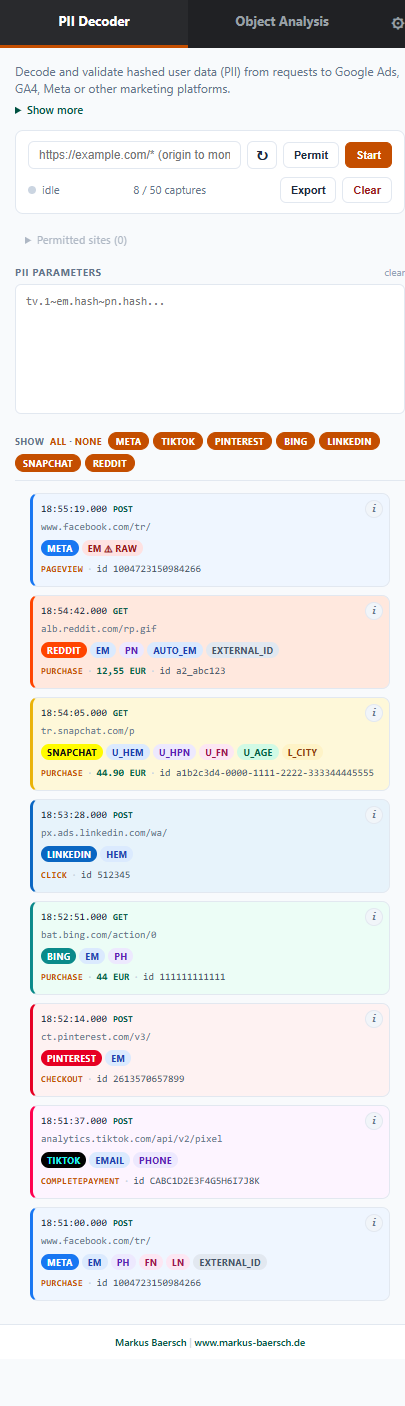
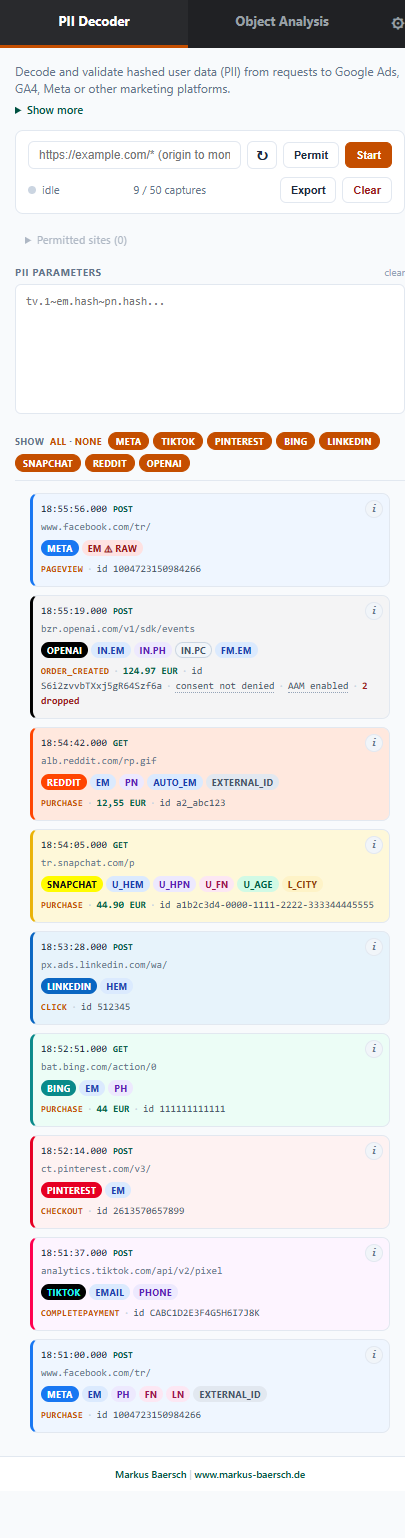
test: cover the OpenAI origin-split validation path end to end
Four Playwright tests drive the panel pipeline the detector unit checks
cannot reach: that in.em and fm.em stay separate rows, that one plaintext
entry yields MATCH against the site-supplied value and ERR against the
scraped one, that the phone normalization reproduces the reference hash,
and that cleartext geo is marked rather than flagged.

Hashes are the reference fixtures (known plaintext -> SHA-256), so a
regression in the normalization rules fails the test rather than
silently agreeing with itself.

diff --git a/tests/validator.spec.js b/tests/validator.spec.js
@@ -218,3 +218,65 @@ test('14. Service filter bar shows on load when a detector is enabled', async ()
   await page.evaluate(() => new Promise((r) => chrome.storage.local.set({ enabledDetectors: {} }, r)));
   await page.close();
 });
+
+// --- OpenAI pixel: the origin-nested user block ------------------------------
+// The one thing no other pixel does — the same identifier arrives once as the
+// site supplied it (in) and once as the SDK scraped it off the page (fm/js/ht).
+// The panel has to keep those apart, or a disagreement between the two is
+// invisible. Hashes are the reference fixtures (docs 2026-09-01-openai-pixel-
+// reference.md §11): identity A went to init, identity B sat in the form.
[3 lines of base64/hex data omitted]
+const OAI_REQUEST = `event=order_created&oai[in.em]=${OAI_EM_A}&oai[in.ph]=${OAI_PH_A}&oai[fm.em]=${OAI_EM_B}&oai[in.pc]=20095`;
+
+async function pasteEm(page, value) {
+  await activateTab(page, 'tab-em');
+  await page.fill('#emInput', value);
+  await page.dispatchEvent('#emInput', 'input');
+  await page.waitForTimeout(300);
+}
+
+test('15. OpenAI: init and scraped email are separate rows, not merged', async () => {
+  const { page, errors } = await openPopup();
+  await pasteEm(page, OAI_REQUEST);
+
+  const html = await page.locator('#emResult').innerHTML();
+  expect(html).toMatch(/OpenAI Ad Measurement Pixel/);
+  expect(html).toMatch(/Email \(init\)/);
+  expect(html).toMatch(/Email \(form\)/);
+  expect(html).toMatch(/order_created/);
+
+  expect(errors).toEqual([]);
+  await page.close();
+});
+
+test('16. OpenAI: the site-supplied email matches while the scraped one does not', async () => {
+  const { page } = await openPopup();
+  await pasteEm(page, OAI_REQUEST);
+  await fillVerification(page, 'v_email', 'test@example.com');
+
+  // Row order follows the block order, so init comes before form.
+  const rows = page.locator('#emResult .res-table tr');
+  await expect(rows.filter({ hasText: 'Email (init)' }).locator('.match')).toBeVisible();
+  await expect(rows.filter({ hasText: 'Email (form)' }).locator('.no-match')).toBeVisible();
+  await page.close();
+});
+
+test('17. OpenAI: phone normalization (digits, no leading zeros) reproduces the hash', async () => {
+  const { page } = await openPopup();
+  await pasteEm(page, OAI_REQUEST);
+  await fillVerification(page, 'v_phone', '+49 170 1234567');
+  const rows = page.locator('#emResult .res-table tr');
+  await expect(rows.filter({ hasText: 'Phone (init)' }).locator('.match')).toBeVisible();
+  await page.close();
+});
+
+test('18. OpenAI: cleartext geo is marked as by-design, never as a leak', async () => {
+  const { page } = await openPopup();
+  await pasteEm(page, OAI_REQUEST);
+  const row = page.locator('#emResult .res-table tr').filter({ hasText: 'Postal code (init)' });
+  await expect(row).toContainText('CLEARTEXT BY DESIGN');
+  await expect(row.locator('.no-match')).toHaveCount(0);
+  await page.close();
+});

diff --git a/tests/detector-fixtures.js b/tests/detector-fixtures.js
@@ -8,7 +8,7 @@ const sha256 = (s) => crypto.createHash('sha256').update(s).digest('hex');
 
 const EMAIL = 'mail@markus-baersch.de';
 const emHash = sha256(EMAIL.toLowerCase());        // 8d9b70fd… — same across all providers
-const phMeta = sha256('4917612345678');            // Meta/Pinterest: digits, no '+'
+const phMeta = sha256('4917612345678');            // Meta/Pinterest/OpenAI: digits, no '+'
 const phE164 = sha256('+4917612345678');           // TikTok/Bing: E.164 with '+'
 const fnHash = sha256('markus');
 const lnHash = sha256('baersch');
@@ -124,10 +124,37 @@ const CAPTURES = [
     detectorParams: { event: 'Purchase', 'rdt[em]': emHash, 'rdt[pn]': phE164, 'rdt[external_id]': extId },
   }),
 
+  // OpenAI — a batch whose user block is split by origin: the site passed the
+  // email/phone to init (in.*), while the SDK scraped a DIFFERENT email off the
+  // form (fm.em) — the two disagree about who the user is. Geo rides in
+  // cleartext by design, and the diagnostic event reports the pixel's own
+  // consent state plus two calls it rejected.
+  cap({
+    ts: ts(7), method: 'POST',
+    url: 'https://bzr.openai.com/v1/sdk/events?pid=S6i2zvvbTXxj5gR64Szf6a&ec=2',
+    host: 'bzr.openai.com',
+    provider: 'openai', source: 'openai', event: 'order_created',
+    providerId: 'S6i2zvvbTXxj5gR64Szf6a',
+    detectorRevenue: { value: '124.97', currency: 'EUR' },
+    detectorConsent: { state: 'not-denied', aam: 'enabled', droppedEvents: 2,
+      droppedReasons: { unsupported_event_name: 2 } },
+    identifiers: [
+      idf('in.em', 'email', { label: 'Email (init)' }),
+      idf('in.ph', 'phone', { label: 'Phone (init)' }),
+      idf('in.pc', 'postal', { label: 'Postal code (init)', hashed: false, cleartext: true }),
+      idf('fm.em', 'email', { label: 'Email (form)' }),
+    ],
+    detectorParams: {
+      event: 'order_created',
+      'oai[in.em]': emHash, 'oai[in.ph]': phMeta, 'oai[in.pc]': '20095',
+      'oai[fm.em]': sha256('scraped@example.com'),
+    },
+  }),
+
   // Meta — a PageView leaking the email UNHASHED: the red "raw" pill, the whole
   // point of the tool.
   cap({
-    ts: ts(7),
+    ts: ts(8),
     url: 'https://www.facebook.com/tr/', host: 'www.facebook.com',
     provider: 'meta', source: 'meta', event: 'PageView', providerId: '1004723150984266',
     identifiers: [idf('em', 'email', { hashed: false, plaintext: true })],

diff --git a/scripts/generate-store-screenshots.js b/scripts/generate-store-screenshots.js
@@ -184,7 +184,7 @@ async function generateStoreScreenshots() {
   async function snap(filename, opts) {
     const { tabTarget, mockCaptures = null, mockRecording = false, setupFn, enableDetectors = false } = opts;
     const enabledDetectors = enableDetectors
-      ? { meta: true, tiktok: true, pinterest: true, bing: true, linkedin: true, snapchat: true, reddit: true }
+      ? { meta: true, tiktok: true, pinterest: true, bing: true, linkedin: true, snapchat: true, reddit: true, openai: true }
       : null;
     const page = await context.newPage();
     await page.addInitScript((data) => {

diff --git a/scripts/generate-screenshots.js b/scripts/generate-screenshots.js
@@ -101,7 +101,7 @@ async function generateScreenshots() {
     state.recording = false;
     const enabledDetectors = {
       meta: true, tiktok: true, pinterest: true, bing: true,
-      linkedin: true, snapchat: true, reddit: true
+      linkedin: true, snapchat: true, reddit: true, openai: true
     };
     chrome.storage.local.set({ captureState: state, enabledDetectors });
   }, CAPTURES);
